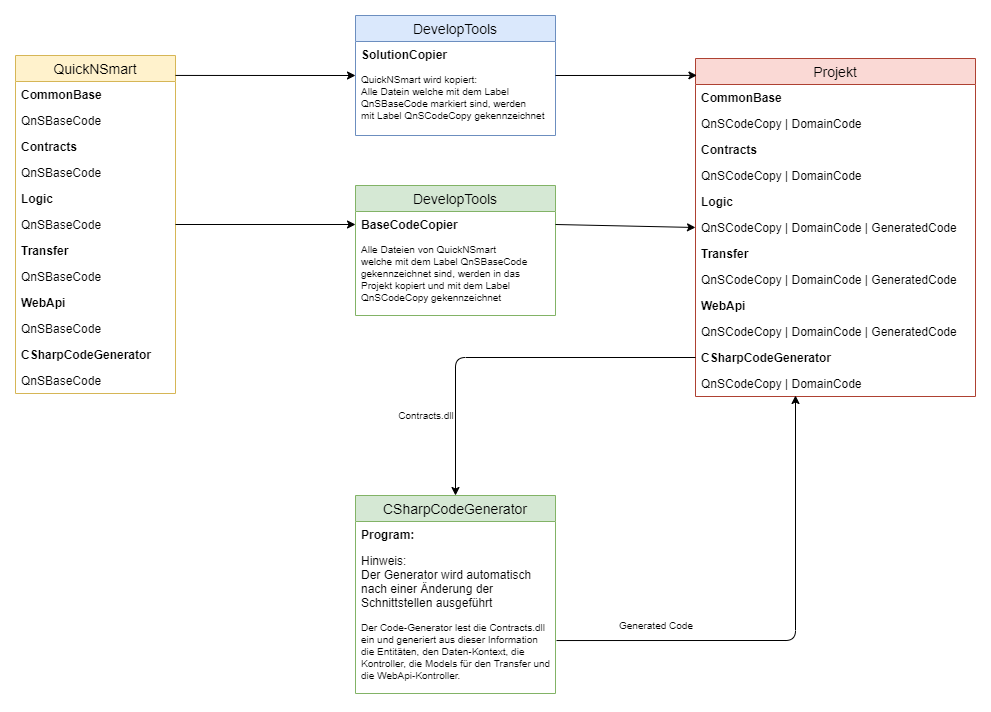
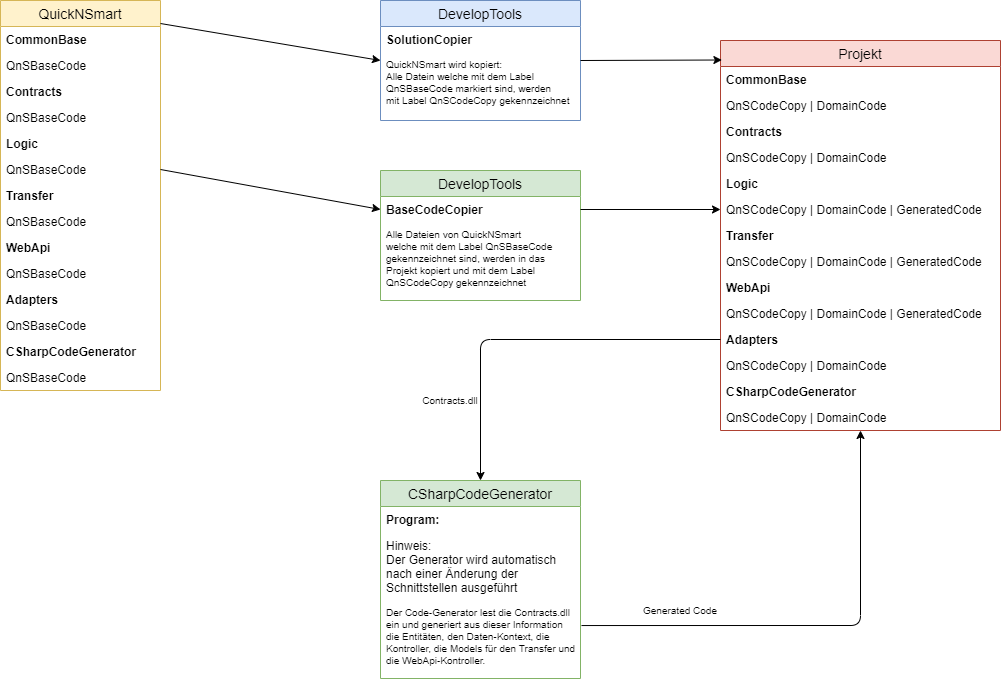
Edit documentation

diff --git a/README.md b/README.md
@@ -44,11 +44,14 @@ Nach dem Ausführen vom SolutionCopier (*sc.Copy(sourcePath, targetPath)*) befin
 - QnSTravelCount.Logic
 - QnSTravelCount.Transfer
 - QnSTravelCount.WebApi
+- QnSTravelCount.Adapters
 - QnSTravelCount.ConApp
 
 Im Projekt 'QuickNSmart' sind alle Code-Teile, welche als Basis-Code in andere Projekte verwendet werden können, mit einem Label '//@QnSBaseCode' markiert. Dieser Label wird im Zielprojekt mit dem Label '//@QnSCodeCopy' ersetzt. Das hat den Vorteil, dass Änderungen im Framework auf die bereits bestehenden Projekte übertragen werden können (nähere Informationen dazu gibt es später).  
 
+### Anpassen des Projektes  
 
+Nach dem Erzeugen des 'Projektes' werden die Schnittstellen definiert und das Projekt Erstellt. Beim Erstellen wird zuerst das Schnittstellen-Projekt Kompiliert und nach deren Übersetzung wird der CSharpCodeGenerator.ConApp ausgeführt. Diese Ausführung wird mit dem Build-Event im Schnittstellen Projekt ausgeführt. 
 
 
 **Viel Spaß beim Testen!**
